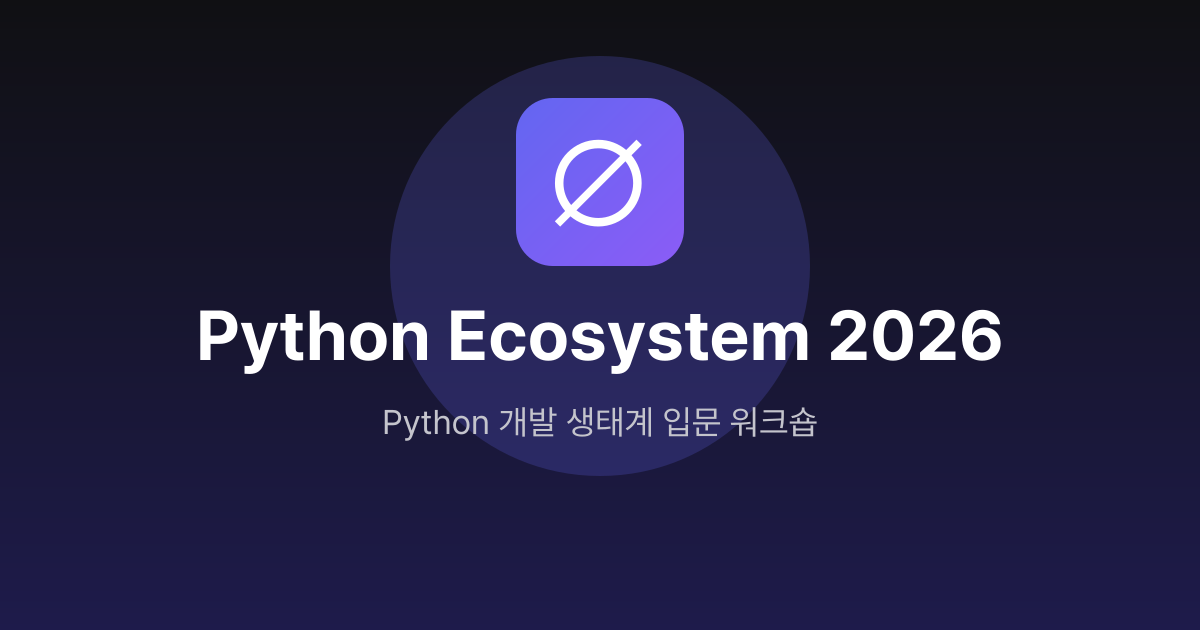
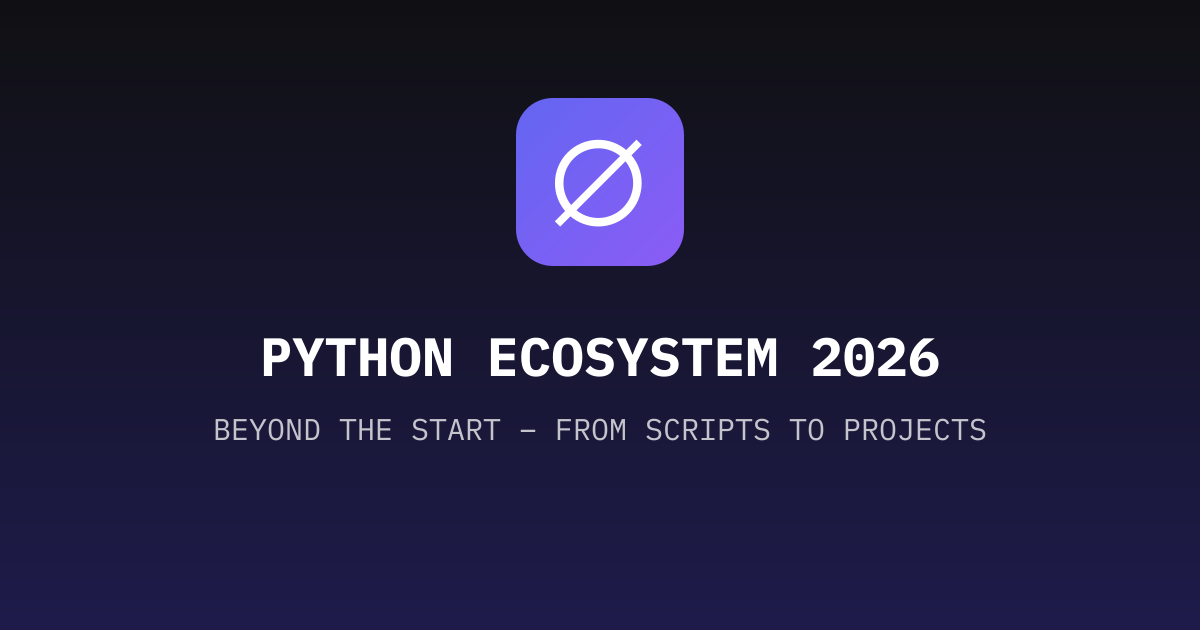
Apply official workshop subtitle
Use the official uppercase title and subtitle across the site, switch title/subtitle typography to IBM Plex Mono, and regenerate the Open Graph image without the background circle.

Changed region(s): [[0.1542, 0.0905, 0.8325, 0.754]]

diff --git a/README.md b/README.md
@@ -1,6 +1,6 @@
-# Python Ecosystem 2026
+# PYTHON ECOSYSTEM 2026
 
-Python 문법 너머의 실제 개발 도구와 생태계를 다루는 입문 워크숍 사이트입니다.
+BEYOND THE START – FROM SCRIPTS TO PROJECTS
 
 - 사이트: <https://jvkceberg.github.io/python-ecosystem-2026/>
 - WSL 설치 가이드: <https://jvkceberg.github.io/python-ecosystem-2026/wsl/>